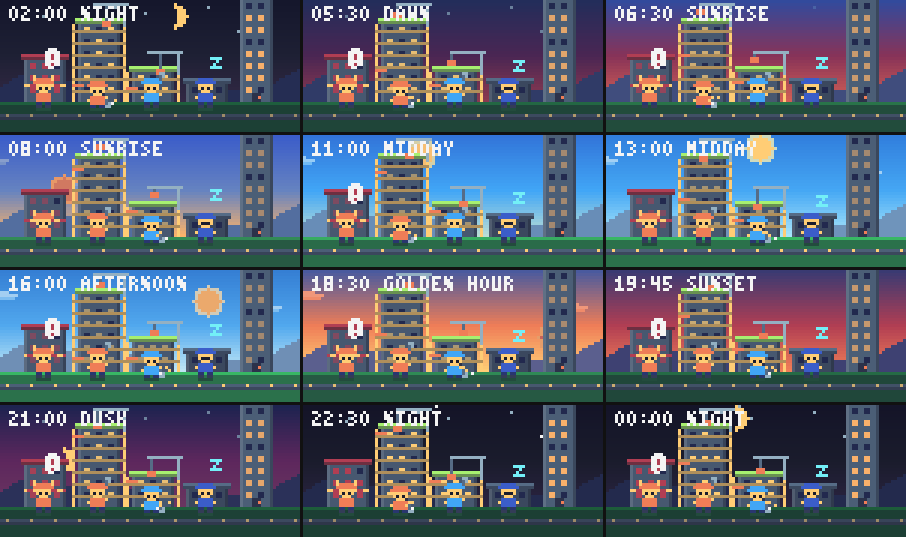
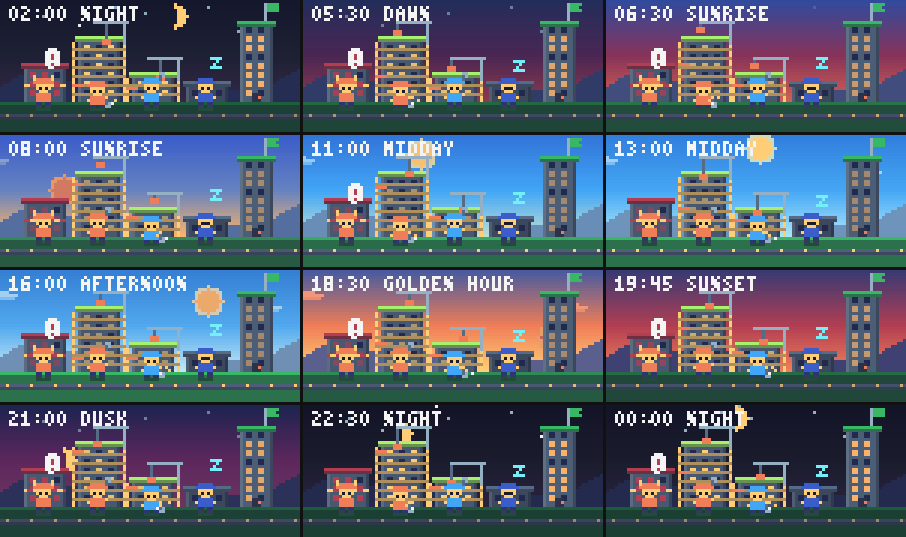
Regenerate the README screenshots
The committed images predated four changes and misrepresented the plugin:
storey height and sprite scale are now derived from the pane rather than
picked (workers were oversized and floors 5-8 rendered identically), building
height is capped so bubbles clear the roof, empty towns draw open land instead
of a placeholder house, and a floor is an hour of work rather than half.

Rendered at 161x48, which is the canvas a real 52-row pane gives, instead of
the short canvas the preview defaulted to. The world view now includes a
workspace with nothing built so the empty-land case is actually visible, and
both preview tools credit an hour per floor so their towns are consistent with
the model.

diff --git a/tools/preview.js b/tools/preview.js
@@ -20,7 +20,7 @@ function fakeTown() {
     label,
     state,
     floors,
-    workMs: floors * 4 * 60000,
+    workMs: floors * 60 * 60000,
     workers: workers.map((w, i) => ({
       paneId: `w1:p${label.length}${i}`,
       name: w.name,
@@ -59,6 +59,8 @@ function fakeWorld() {
     { ...t, id: 'w2', label: 'fablo', counts: { working: 1, blocked: 0, idle: 2, done: 0, unknown: 0 }, agentCount: 3, buildingList: t.buildingList.slice(1, 4) },
     { ...t, id: 'w3', label: 'herdr plugins', counts: { working: 1, blocked: 0, idle: 0, done: 0, unknown: 0 }, agentCount: 1, buildingList: t.buildingList.slice(1, 2) },
     { ...t, id: 'w4', label: 'quiet', counts: { working: 0, blocked: 0, idle: 1, done: 0, unknown: 0 }, agentCount: 1, buildingList: t.buildingList.slice(4) },
+    // A workspace with nothing built yet: open land, not a placeholder house.
+    { ...t, id: 'w5', label: 'new project', counts: { working: 0, blocked: 0, idle: 0, done: 0, unknown: 0 }, agentCount: 0, buildingList: [] },
   ];
 }
 

diff --git a/tools/daysheet.js b/tools/daysheet.js
@@ -25,7 +25,7 @@ function town() {
     label,
     state,
     floors,
-    workMs: floors * 30 * 60000,
+    workMs: floors * 60 * 60000,
     workers: workers.map((w, i) => ({
       paneId: `w1:p${label.length}${i}`, name: w.name, state: w.state, focused: false, title: label,
     })),

diff --git a/README.md b/README.md
@@ -106,7 +106,10 @@ you can see across everything you are running.
 
 ![World view](docs/world.png)
 
-A town with a blocked agent raises a `!` above its skyline.
+A town with a blocked agent raises a `!` above its skyline, and the town you
+have selected keeps a frame around its plot. A workspace with nothing built
+yet shows open land rather than a placeholder building, so the map never
+promises a town that the town view then shows as an empty field.
 
 ## The town remembers
 
